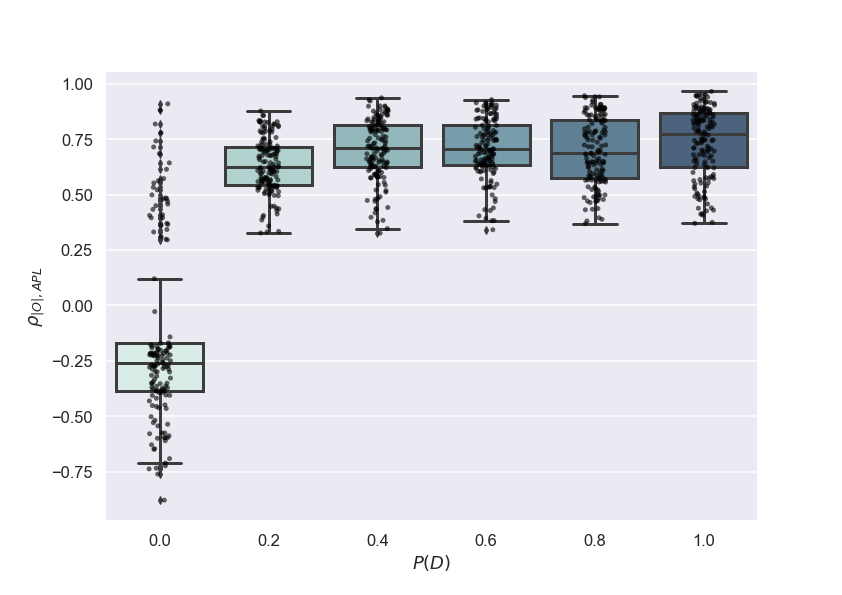
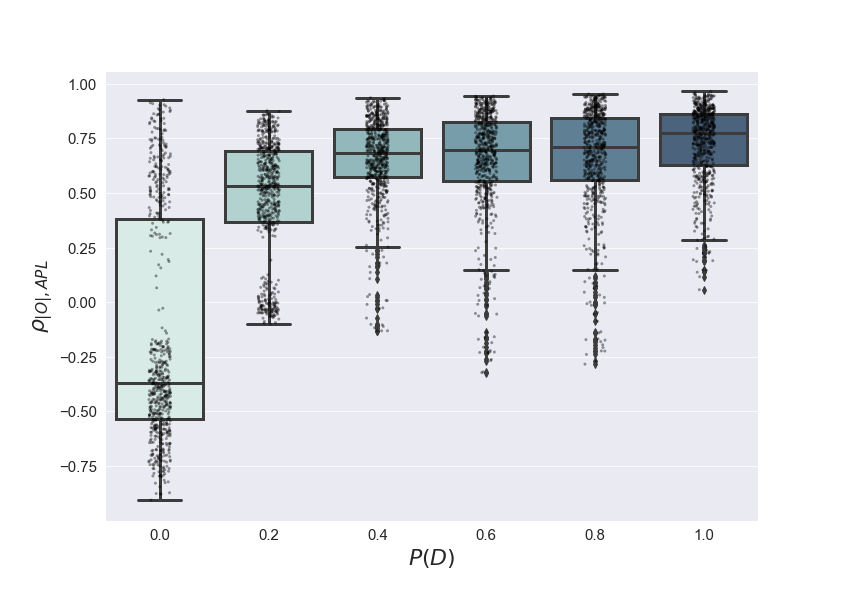
remake correlation plots

diff --git a/LaDoN/ladon/load_files_over_time.py b/LaDoN/ladon/load_files_over_time.py
@@ -97,7 +97,7 @@ g = sns.relplot(
     hue="tie_dissolution",
     kind="line",
     col="randomness",
-    # palette=blue_pallette,
+    palette=blue_pallette,
 ).set(ylabel=r"$|O|$", xlabel=r"$t$")
 
 rename_plot(g, titles=[r"$R = 0.1$", r"$R = 0.3$", r"$R = 0.5$"], legend=r"$P(D)$")
@@ -164,6 +164,16 @@ correlations = (
     .iloc[0::2, -1]
     .reset_index()
 )
+sns.set_context(
+    "paper",
+    rc={
+        "figure.figsize": (11.7, 8.27),
+        "font.size": 13,
+        "axes.titlesize": 17,
+        "axes.labelsize": 22,
+    },
+    font_scale=1.7,
+)
 
 sns.boxplot(
     data=correlations,
@@ -211,6 +221,7 @@ data_specific = data[
     & (data["negative_learning_rate"] == 0.1)
     & (data["tie_dissolution"] == 1)
     & (data["run"] == 6)
+    & (data["randomness"] == 0.1)
 ]
 
 g = sns.lineplot(
